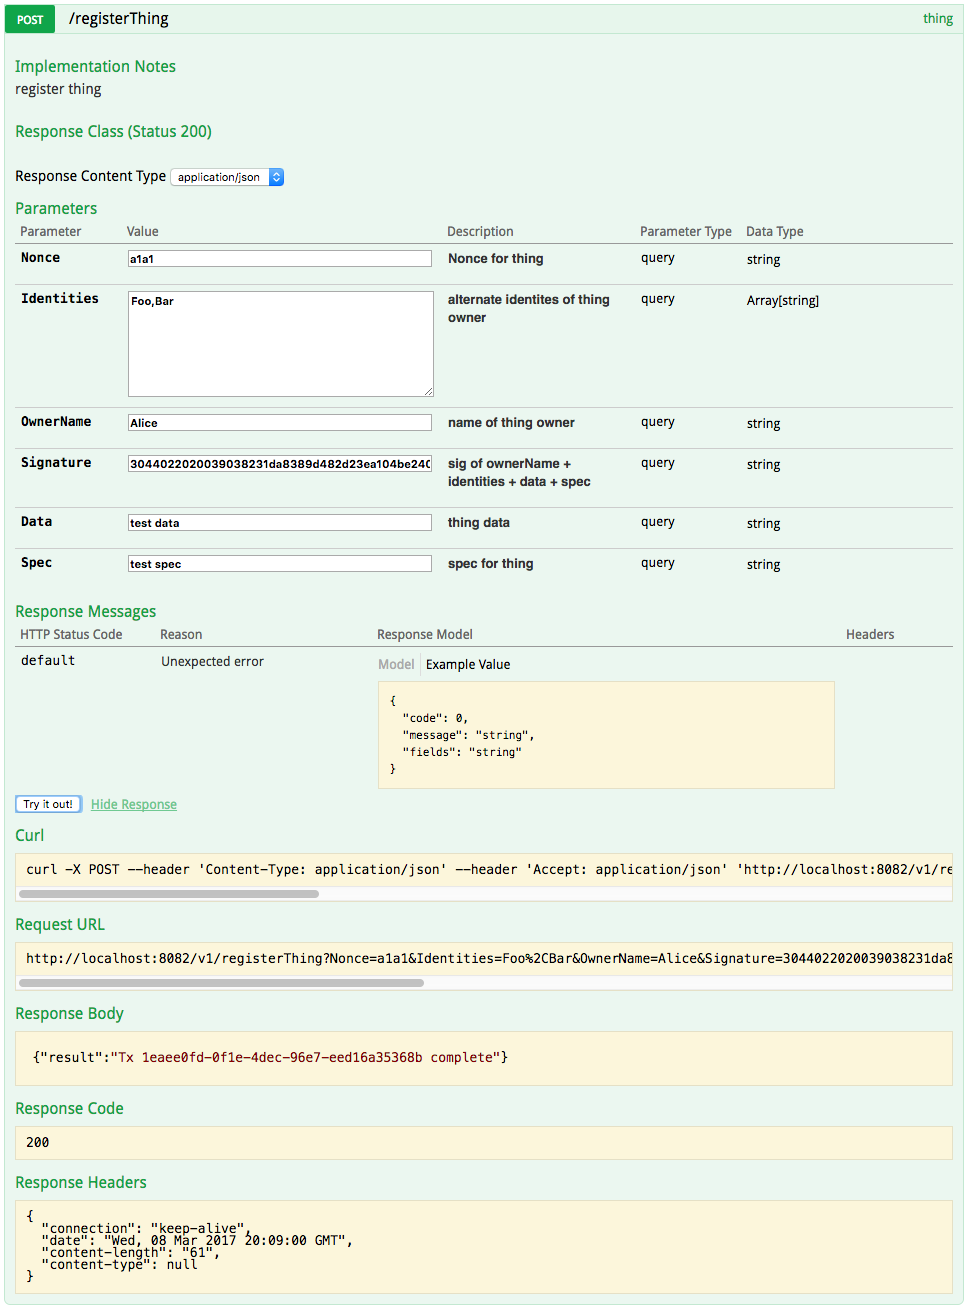
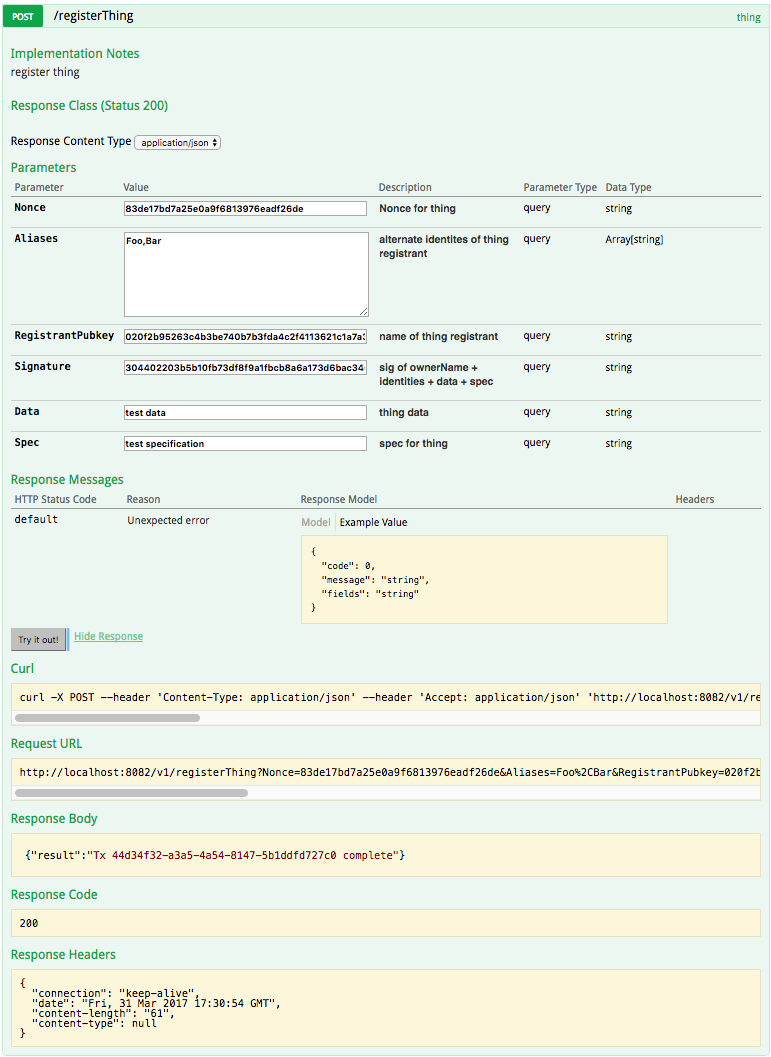
update images and readme

diff --git a/README.md b/README.md
@@ -11,47 +11,47 @@ This is the swagger user interface. There are nine commands.
 
 Three are for generating signatures:  
 
-1. generateRegisterOwnerSig 
+1. createRegistrantSig 
 2. generateRegisterThingSig 
 3. generateRegisterSpecSig 
 
 There are three for registering a type to the ledger:
 
-1. registerOwner  
+1. createRegistrant  
 2. registerThing  
 3. registerSpec  
 
 And there are three commands for querying the ledger:
 
-1. owner  
+1. registrant  
 2. thing  
 3. spec  
   
   
 Here is a brief description of each different type of registration:
 
-1. Register an owner  
-    This allows for the user to put an "Owner: \<name>" state to the ledger. An owner is an entity that has control over things on the ledger.
+1. Create a registrant  
+    This allows for the user to put an "RegistrantPubkey: \<pubkey>" state to the ledger. A registrant is an entity that has control over things on the ledger.
 2. Register a thing  
-    A thing is an iot device. It can include a set of aliases of its owner, which allows for the thing to be connected to multiple names shared by the same owner.
+    A thing is an iot device. It can include a set of aliases of its registrant, which allows for the thing to be connected to multiple names shared by the same owner.
 3. Register a spec  
     A spec or specification is a specific description of a thing with pertinent information about the thing.
 
-Next let's go through a sample registration and query for owner, thing, and spec. In order to register a thing or a spec, an owner must first be registered.  
+Next let's go through a sample registration and query for registrant, thing, and spec. In order to register a thing or a spec, an registrant must first be registered.  
 
-### Owner
+### Registrant
 
-First, create a registerOwnerSig. With the fields filled in, click "try it out". A successful result looks like the following:  
-<img src="https://github.com/InternetofTrustedThings/IOTRegistrySwagger/blob/master/images/ownerSig.png" 
+First, create a createRegistrantSig. With the fields filled in, click "try it out". A successful result looks like the following:  
+<img src="https://github.com/InternetofTrustedThings/IOTRegistrySwagger/blob/master/images/createRegistrantSig.png" 
 alt="main" border="10"/>
-Copy the signature in response body. This is used for registerOwner, at the top of the swagger ui page.  
+Copy the signature in response body. This is used for createRegistrant, at the top of the swagger ui page.  
 
 Fill in the appropriate fields and click "try it out". A successful result looks like the following:  
-<img src="https://github.com/InternetofTrustedThings/IOTRegistrySwagger/blob/master/images/ownerRegister.png" 
+<img src="https://github.com/InternetofTrustedThings/IOTRegistrySwagger/blob/master/images/createRegistrant.png" 
 alt="main" border="10"/>
   
-To check that the owner has in fact been registered, we query the ledger:
-<img src="https://github.com/InternetofTrustedThings/IOTRegistrySwagger/blob/master/images/ownerQuery.png" 
+To check that the registrant has in fact been registered, we query the ledger:
+<img src="https://github.com/InternetofTrustedThings/IOTRegistrySwagger/blob/master/images/registrantQuery.png" 
 alt="main" border="10"/>
 
 ### Thing
